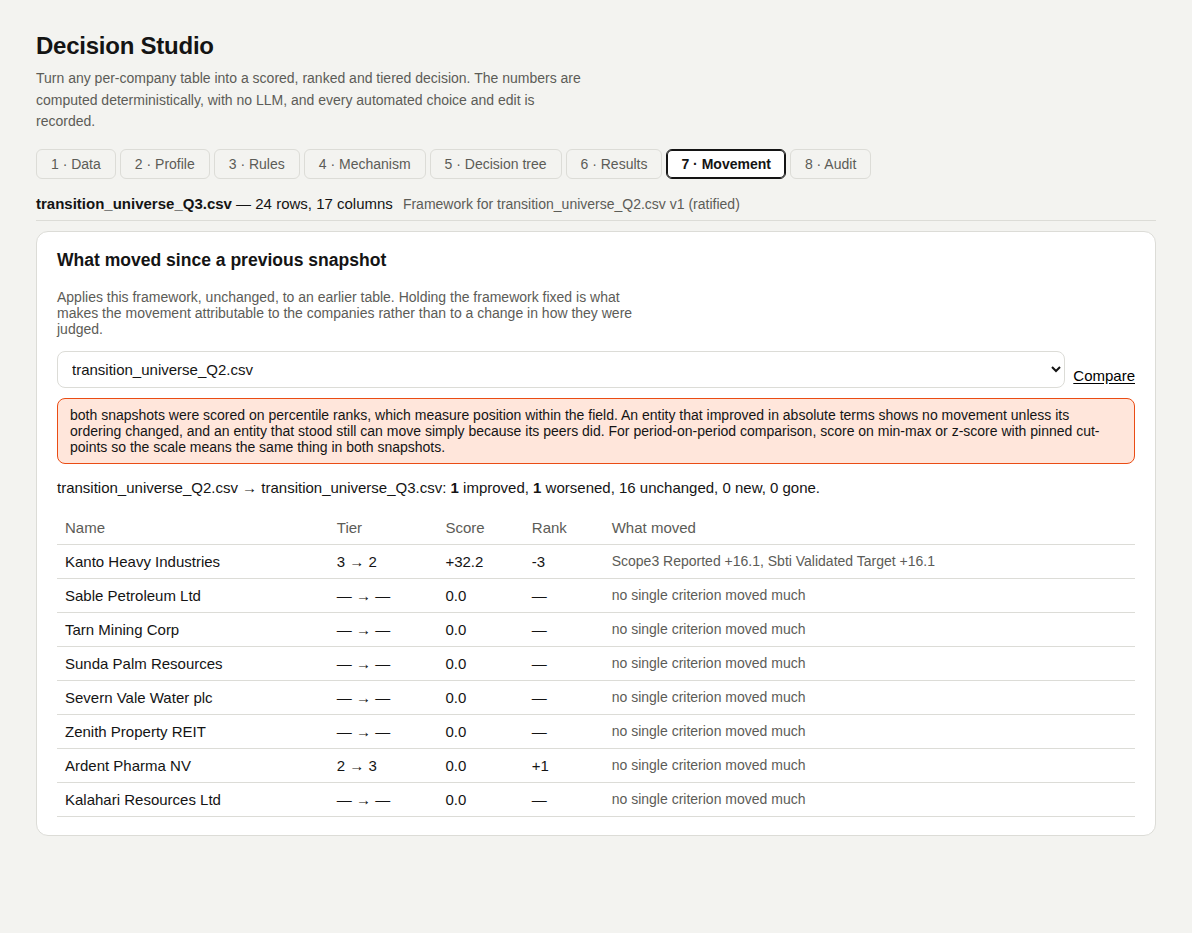
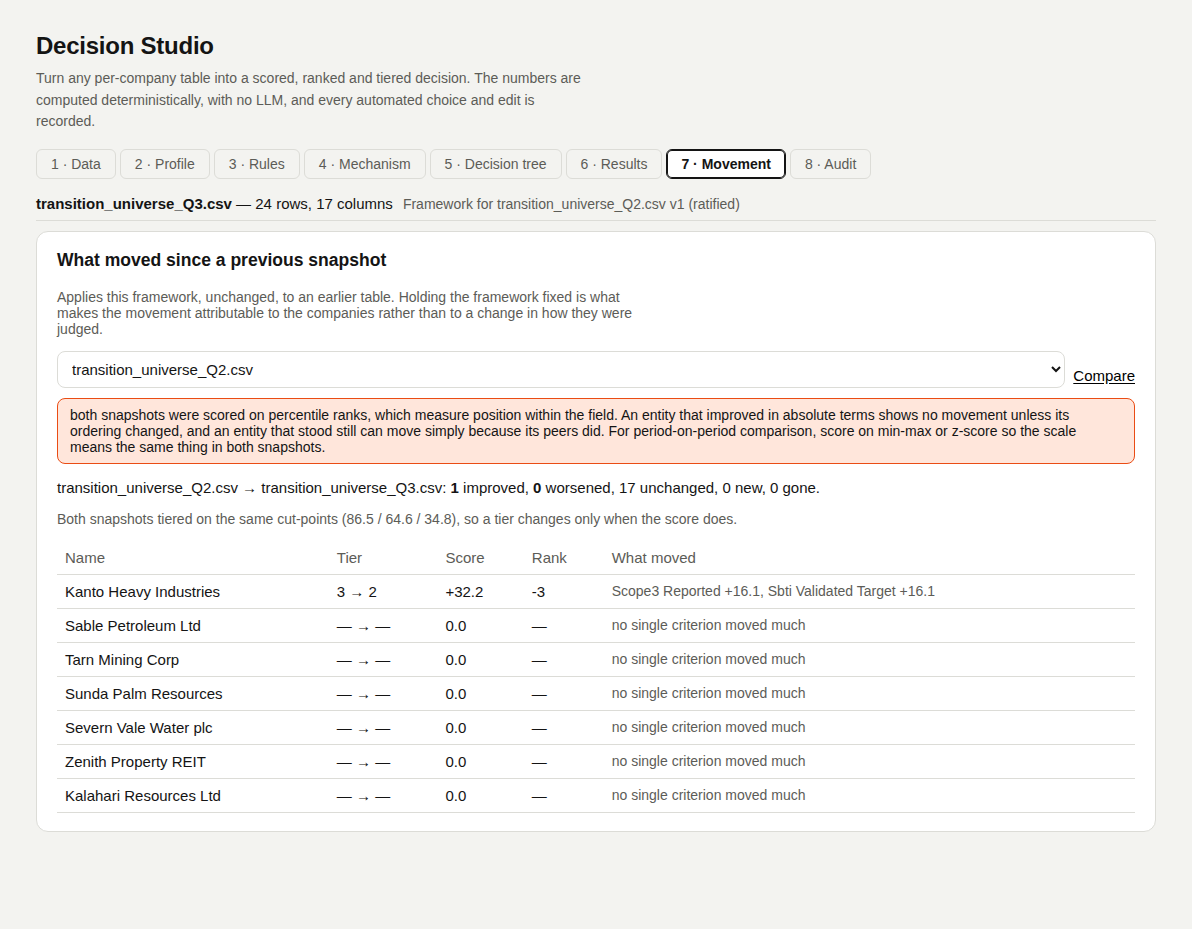
Movement: tier the later snapshot on the earlier snapshot's cut-points
Quantile and natural-break cut-points were drawn afresh for each snapshot,
so they moved with the field: in the sample, Kanto improving pushed the
middle cut from 64.6 to 71.0 and dropped Ardent Pharma a tier on an
unchanged score, with no driver. The compare endpoint and CLI now score
the later snapshot with the earlier one's cut-points pinned (hold_cuts),
unless the framework already fixes them. The comparison reports the
cut-points used, and cuts_moved when two results were tiered on different
cut-points.

Claude-Session: https://claude.ai/code/session_01AVffM6Ffq8FKqvSX7caGGk

diff --git a/docs/decision-studio/movement.html b/docs/decision-studio/movement.html
@@ -12,7 +12,14 @@
     <p class="lede">Applies the same framework version, unchanged, to an earlier table. Holding the framework fixed makes any movement belong to the entities.</p>
   </header>
   <div class="cols">
-    <div class="logic"><section class="block"><h2>What it returns</h2><div class="tw"><table><thead><tr><th>Output</th><th>Meaning</th></tr></thead><tbody><tr><td>Counts</td><td>improved, worsened, unchanged, entered (new in this table), left (gone).</td></tr><tr><td>Per entity</td><td>tier, score, rank and status before and after, with the deltas. A negative tier change is an improvement.</td></tr><tr><td>Drivers</td><td>The criteria whose contribution moved most, largest first.</td></tr></tbody></table></div></section><section class="block"><h2>Guards</h2><div class="tw"><table><thead><tr><th>Situation</th><th>Result</th></tr></thead><tbody><tr><td>Different framework or version on each side</td><td><b>Refused</b> with the reason: the difference would describe the frameworks.</td></tr><tr><td>Percentile scores on both sides</td><td>Returned with a caveat: ranks show movement relative to the field, never absolute improvement.</td></tr><tr><td>A move with no driver</td><td>Empty driver list: the shape of a data problem, not progress.</td></tr></tbody></table></div><p class="note">For period-on-period work, score with min–max or z-score and fixed cut-points so the scale means the same in both tables.</p></section><section class="block"><h2>In the tool</h2><p>Screenshots of Decision Studio running on the sample table, taken with the app as it is on main.</p><figure class="shot"><a href="screenshots/07-movement.png"><img src="screenshots/07-movement.png" alt="Q3 against Q2 under the same ratified framework: Kanto 3 → 2 with its drivers, and Ardent Pharma 2 → 3 with no driver, because the quantile cut moved." loading="lazy"></a><figcaption>Q3 against Q2 under the same ratified framework: Kanto 3 → 2 with its drivers, and Ardent Pharma 2 → 3 with no driver, because the quantile cut moved.</figcaption></figure></section><section class="block"><h2>Functions applied</h2><p>What runs at this step, in order, with an example. Blue rows run on GoRules ZEN; the rest is Python in <code>backend/arp/decision/</code>.</p><div class="tw"><table><thead><tr><th>Function</th><th>Engine</th><th>Example</th></tr></thead><tbody><tr class=""><td><code>compare_results</code></td><td>Python</td><td>Q3 table where Kanto now reports Scope 3 and has an SBTi target → Kanto Tier 3 → 2, score 39.8 → 72.0, drivers <em>Scope3 Reported +16.1</em>, <em>Sbti Validated Target +16.1</em>.</td></tr><tr class=""><td><code>compare_results</code></td><td>Python</td><td>Same run: Ardent Pharma Tier 2 → 3 with its score unchanged at 70.1 and <b>no drivers</b>. The quantile cut moved 64.6 → 71.0 because Kanto rose. The percentile caveat is returned.</td></tr></tbody></table></div></section><section class="block"><h2>Code and formulas</h2><p>The formula each function applies, and its source as it is in the repository.</p><div class="fn"><div class="fn-h"><code class="fn-name">compare_results</code><span class="fn-where">backend/arp/decision/compare.py:9–92</span></div><p class="formula-p">Refused unless both results carry the same framework id and version. Then per entity: tier, score and rank before, after and delta.</p><details><summary>Python source (84 lines)</summary><pre class="src"><code>def compare_results(
+    <div class="logic"><section class="block"><h2>What it returns</h2><div class="tw"><table><thead><tr><th>Output</th><th>Meaning</th></tr></thead><tbody><tr><td>Counts</td><td>improved, worsened, unchanged, entered (new in this table), left (gone).</td></tr><tr><td>Per entity</td><td>tier, score, rank and status before and after, with the deltas. A negative tier change is an improvement.</td></tr><tr><td>Drivers</td><td>The criteria whose contribution moved most, largest first.</td></tr></tbody></table></div></section><section class="block"><h2>Guards</h2><div class="tw"><table><thead><tr><th>Situation</th><th>Result</th></tr></thead><tbody><tr><td>Different framework or version on each side</td><td><b>Refused</b> with the reason: the difference would describe the frameworks.</td></tr><tr><td>Percentile scores on both sides</td><td>Returned with a caveat: ranks show movement relative to the field, never absolute improvement.</td></tr><tr><td>Quantile or natural-break cut-points</td><td>The later table is tiered on the earlier table's cut-points, so a tier changes only when the score does. Cut-points drawn afresh would move with the field.</td></tr><tr><td>A move with no driver</td><td>Empty driver list: the shape of a data problem, not progress.</td></tr></tbody></table></div><p class="note">For period-on-period work, score with min–max or z-score so the scores themselves mean the same in both tables.</p></section><section class="block"><h2>In the tool</h2><p>Screenshots of Decision Studio running on the sample table, taken with the app as it is on main.</p><figure class="shot"><a href="screenshots/07-movement.png"><img src="screenshots/07-movement.png" alt="Q3 against Q2 under the same ratified framework, tiered on Q2&#x27;s cut-points: only Kanto moves, 3 → 2, with its two drivers." loading="lazy"></a><figcaption>Q3 against Q2 under the same ratified framework, tiered on Q2's cut-points: only Kanto moves, 3 → 2, with its two drivers.</figcaption></figure></section><section class="block"><h2>Functions applied</h2><p>What runs at this step, in order, with an example. Blue rows run on GoRules ZEN; the rest is Python in <code>backend/arp/decision/</code>.</p><div class="tw"><table><thead><tr><th>Function</th><th>Engine</th><th>Example</th></tr></thead><tbody><tr class=""><td><code>compare_results</code></td><td>Python</td><td>Q3 table where Kanto now reports Scope 3 and has an SBTi target → Kanto Tier 3 → 2, score 39.8 → 72.0, drivers <em>Scope3 Reported +16.1</em>, <em>Sbti Validated Target +16.1</em>.</td></tr><tr class=""><td><code>hold_cuts</code></td><td>Python</td><td>The Q3 table is tiered on Q2's cut-points 86.5 / 64.6 / 34.8. Drawn afresh, Kanto's rise would move the middle cut to 71.0 and drop Ardent Pharma to Tier 3 on an unchanged 70.1 with no driver; held, Ardent stays in Tier 2 and only Kanto moves. The percentile caveat is returned.</td></tr></tbody></table></div></section><section class="block"><h2>Code and formulas</h2><p>The formula each function applies, and its source as it is in the repository.</p><div class="fn"><div class="fn-h"><code class="fn-name">hold_cuts</code><span class="fn-where">backend/arp/decision/compare.py:9–16</span></div><p class="formula-p"><code>cut_mode = absolute, pinned_cuts = cuts(before)</code> for the later snapshot, unless the framework already pins its cuts.</p><details><summary>Python source (8 lines)</summary><pre class="src"><code>def hold_cuts(config: MechanismConfig, before: DecisionResult) -&gt; MechanismConfig:
+    &quot;&quot;&quot;The framework with the earlier snapshot&#x27;s cut-points pinned, for
+    scoring the later one. Quantile or natural-break cuts drawn afresh move
+    with the field, so an entity whose score stood still could change tier
+    with no criterion behind it. Fixed cut-points are left as they are.&quot;&quot;&quot;
+    if before.cuts_origin == &quot;absolute&quot;:
+        return config
+    return config.model_copy(update={&quot;cut_mode&quot;: &quot;absolute&quot;, &quot;pinned_cuts&quot;: list(before.effective_cuts)})</code></pre></details></div><div class="fn"><div class="fn-h"><code class="fn-name">compare_results</code><span class="fn-where">backend/arp/decision/compare.py:19–111</span></div><p class="formula-p">Refused unless both results carry the same framework id and version. Then per entity: tier, score and rank before, after and delta.</p><details><summary>Python source (93 lines)</summary><pre class="src"><code>def compare_results(
     before: DecisionResult,
     after: DecisionResult,
     *,
@@ -77,7 +84,14 @@
             &quot;both snapshots were scored on percentile ranks, which measure position within the field. An entity &quot;
             &quot;that improved in absolute terms shows no movement unless its ordering changed, and an entity that &quot;
             &quot;stood still can move simply because its peers did. For period-on-period comparison, score on min-max &quot;
-            &quot;or z-score with pinned cut-points so the scale means the same thing in both snapshots.&quot;
+            &quot;or z-score so the scale means the same thing in both snapshots.&quot;
+        )
+
+    cuts_moved = None
+    if before.effective_cuts != after.effective_cuts:
+        cuts_moved = (
+            f&quot;the cut-points moved from {&#x27; / &#x27;.join(f&#x27;{c:.1f}&#x27; for c in before.effective_cuts)} to &quot;
+            f&quot;{&#x27; / &#x27;.join(f&#x27;{c:.1f}&#x27; for c in after.effective_cuts)}, so a tier can change on an unchanged score&quot;
         )
 
     movements.sort(key=lambda m: (-(abs(m.score_delta) if m.score_delta is not None else -1)))
@@ -95,7 +109,9 @@
         comparable=comparable,
         incomparable_reason=reason,
         caveat=caveat,
-    )</code></pre></details></div><div class="fn"><div class="fn-h"><code class="fn-name">_drivers</code><span class="fn-where">backend/arp/decision/compare.py:95–109</span></div><p class="formula-p"><code>Δcontributionⱼ = contributionⱼ(after) − contributionⱼ(before)</code>; criteria with <code>|Δ| ≥ 0.5</code>, largest first.</p><details><summary>Python source (15 lines)</summary><pre class="src"><code>def _drivers(old, new) -&gt; list[str]:
+        cut_points=list(after.effective_cuts),
+        cuts_moved=cuts_moved,
+    )</code></pre></details></div><div class="fn"><div class="fn-h"><code class="fn-name">_drivers</code><span class="fn-where">backend/arp/decision/compare.py:114–128</span></div><p class="formula-p"><code>Δcontributionⱼ = contributionⱼ(after) − contributionⱼ(before)</code>; criteria with <code>|Δ| ≥ 0.5</code>, largest first.</p><details><summary>Python source (15 lines)</summary><pre class="src"><code>def _drivers(old, new) -&gt; list[str]:
     &quot;&quot;&quot;Which criteria actually moved the score. A tier change with no named
     driver is the shape of a data problem, not of progress, and the list
     being empty says so.&quot;&quot;&quot;

diff --git a/frontend/src/pages/DecisionStudio.tsx b/frontend/src/pages/DecisionStudio.tsx
@@ -872,6 +872,16 @@ export function DecisionStudio() {
                 <strong>{comparison.worsened}</strong> worsened, {comparison.unchanged} unchanged, {comparison.entered} new,{" "}
                 {comparison.left} gone.
               </p>
+              {comparison.cuts_moved ? (
+                <p className="decision-check-banner">{comparison.cuts_moved}</p>
+              ) : (
+                !!comparison.cut_points?.length && (
+                  <p className="muted">
+                    Both snapshots tiered on the same cut-points ({comparison.cut_points.map((c) => c.toFixed(1)).join(" / ")}), so a
+                    tier changes only when the score does.
+                  </p>
+                )
+              )}
               <table className="data-table">
                 <thead>
                   <tr>

diff --git a/frontend/src/types.ts b/frontend/src/types.ts
@@ -1971,6 +1971,8 @@ export interface DecisionComparison {
   comparable: boolean;
   incomparable_reason?: string | null;
   caveat?: string | null;
+  cut_points?: number[];
+  cuts_moved?: string | null;
 }
 
 // ---------------------------------------------------------------- index

diff --git a/docs/decision-studio/build.py b/docs/decision-studio/build.py
@@ -80,7 +80,7 @@ FUNCS = {
     ],
     "movement": [
         ("compare_results", "Python", "Q3 table where Kanto now reports Scope 3 and has an SBTi target → Kanto Tier 3 → 2, score 39.8 → 72.0, drivers <em>Scope3 Reported +16.1</em>, <em>Sbti Validated Target +16.1</em>."),
-        ("compare_results", "Python", "Same run: Ardent Pharma Tier 2 → 3 with its score unchanged at 70.1 and <b>no drivers</b>. The quantile cut moved 64.6 → 71.0 because Kanto rose. The percentile caveat is returned."),
+        ("hold_cuts", "Python", "The Q3 table is tiered on Q2's cut-points 86.5 / 64.6 / 34.8. Drawn afresh, Kanto's rise would move the middle cut to 71.0 and drop Ardent Pharma to Tier 3 on an unchanged 70.1 with no driver; held, Ardent stays in Tier 2 and only Kanto moves. The percentile caveat is returned."),
     ],
     "audit": [
         ("describe_changes", "Python", "Minimum coverage 60 → 75 → <code>('Minimum weight covered (%)', '60 -&gt; 75', origin human, by A. Reviewer)</code>"),
@@ -166,6 +166,7 @@ CODE = {
         ("decision/sensitivity.py", "tipping_points", "For each dimension, scale its weight from 0 up in <code>steps</code>, re-apply the framework, and take the share nearest today's at which the tier changes. None → robust."),
     ],
     "movement": [
+        ("decision/compare.py", "hold_cuts", "<code>cut_mode = absolute, pinned_cuts = cuts(before)</code> for the later snapshot, unless the framework already pins its cuts."),
         ("decision/compare.py", "compare_results", "Refused unless both results carry the same framework id and version. Then per entity: tier, score and rank before, after and delta."),
         ("decision/compare.py", "_drivers", "<code>Δcontributionⱼ = contributionⱼ(after) − contributionⱼ(before)</code>; criteria with <code>|Δ| ≥ 0.5</code>, largest first."),
     ],
@@ -206,7 +207,7 @@ SHOTS = {
         ("06c-explain.png", "Kanto Heavy Industries opened: what moved its score."),
         ("06b-sensitivity.png", "Kanto's tipping points: Scope 3 at +4.1 points flips it to Tier 4."),
     ],
-    "movement": [("07-movement.png", "Q3 against Q2 under the same ratified framework: Kanto 3 → 2 with its drivers, and Ardent Pharma 2 → 3 with no driver, because the quantile cut moved.")],
+    "movement": [("07-movement.png", "Q3 against Q2 under the same ratified framework, tiered on Q2's cut-points: only Kanto moves, 3 → 2, with its two drivers.")],
     "audit": [("08-audit.png", "Audit after ratifying v1: the ratified badge, Publish, and the derived half of the log.")],
     "output": [("09-publish.png", "The Publish dialog on the sample table: <b>Match issuers by</b> defaults to ISIN, the column the engine marked as a reference.")],
 }
@@ -524,8 +525,9 @@ PAGES["movement"] = dict(
             ["Situation", "Result"], [
                 ["Different framework or version on each side", "<b>Refused</b> with the reason: the difference would describe the frameworks."],
                 ["Percentile scores on both sides", "Returned with a caveat: ranks show movement relative to the field, never absolute improvement."],
+                ["Quantile or natural-break cut-points", "The later table is tiered on the earlier table's cut-points, so a tier changes only when the score does. Cut-points drawn afresh would move with the field."],
                 ["A move with no driver", "Empty driver list: the shape of a data problem, not progress."],
-            ]) + '<p class="note">For period-on-period work, score with min–max or z-score and fixed cut-points so the scale means the same in both tables.</p>'),
+            ]) + '<p class="note">For period-on-period work, score with min–max or z-score so the scores themselves mean the same in both tables.</p>'),
     ],
     example=[
         ("Q2 table + Q3 table, both v1", "Illustration: tier moves with drivers, e.g. a company rising because Scope3_Reported turned Yes."),

diff --git a/backend/tests/test_decision_analysis.py b/backend/tests/test_decision_analysis.py
@@ -4,7 +4,7 @@ from pathlib import Path
 
 import pytest
 
-from arp.decision.compare import compare_results
+from arp.decision.compare import compare_results, hold_cuts
 from arp.decision.dataset import build_dataset, dataset_from_file
 from arp.decision.mechanism import apply_mechanism, derive_mechanism
 from arp.decision.sensitivity import tipping_points
@@ -115,3 +115,39 @@ def test_entities_entering_and_leaving_are_counted_separately():
     comparison = compare_results(apply_mechanism(before, config), apply_mechanism(after, config))
     assert comparison.entered == 1
     assert comparison.left == 4
+
+
+def _kanto_improves(dataset):
+    rows = [dict(r) for r in dataset.rows]
+    for row in rows:
+        if row["Company"].startswith("Kanto"):
+            row["Scope3_Reported"] = "Yes"
+            row["SBTi_Validated_Target"] = "Yes"
+    return build_dataset("q3", [dataset.columns] + [[r[c] for c in dataset.columns] for r in rows])
+
+
+def test_quantile_cuts_are_held_so_a_tier_change_needs_a_score_change(sample):
+    """Kanto discloses Scope 3 and gets a target; nobody else changes. Drawn
+    afresh, the quantile cuts move with Kanto and push Ardent Pharma down a
+    tier on an identical score -- a movement with no driver. Held at the
+    earlier snapshot's cuts, only Kanto moves."""
+    dataset, config, _ = sample
+    first = apply_mechanism(dataset, config)
+    later = _kanto_improves(dataset)
+
+    redrawn = compare_results(first, apply_mechanism(later, config))
+    ardent = next(m for m in redrawn.movements if m.name.startswith("Ardent"))
+    assert ardent.tier_delta == 1 and ardent.score_delta == 0 and not ardent.drivers
+    assert redrawn.cuts_moved is not None
+
+    held = compare_results(first, apply_mechanism(later, hold_cuts(config, first)))
+    assert held.comparable is True
+    assert held.cut_points == first.effective_cuts
+    assert held.cuts_moved is None
+    assert [m.name for m in held.movements if m.tier_delta] == ["Kanto Heavy Industries"]
+
+
+def test_holding_cuts_leaves_fixed_cut_points_alone(sample):
+    dataset, config, _ = sample
+    fixed = config.model_copy(update={"cut_mode": "absolute", "pinned_cuts": [80.0, 60.0, 40.0]})
+    assert hold_cuts(fixed, apply_mechanism(dataset, fixed)) is fixed

diff --git a/backend/arp/decision/compare.py b/backend/arp/decision/compare.py
@@ -1,9 +1,19 @@
 from __future__ import annotations
 
 from arp.decision.roles import pretty
-from arp.schemas.decision import DecisionComparison, DecisionResult, EntityMovement
+from arp.schemas.decision import DecisionComparison, DecisionResult, EntityMovement, MechanismConfig
 
 _MAX_DRIVERS = 3
+
+
+def hold_cuts(config: MechanismConfig, before: DecisionResult) -> MechanismConfig:
+    """The framework with the earlier snapshot's cut-points pinned, for
+    scoring the later one. Quantile or natural-break cuts drawn afresh move
+    with the field, so an entity whose score stood still could change tier
+    with no criterion behind it. Fixed cut-points are left as they are."""
+    if before.cuts_origin == "absolute":
+        return config
+    return config.model_copy(update={"cut_mode": "absolute", "pinned_cuts": list(before.effective_cuts)})
 
 
 def compare_results(
@@ -71,7 +81,14 @@ def compare_results(
             "both snapshots were scored on percentile ranks, which measure position within the field. An entity "
             "that improved in absolute terms shows no movement unless its ordering changed, and an entity that "
             "stood still can move simply because its peers did. For period-on-period comparison, score on min-max "
-            "or z-score with pinned cut-points so the scale means the same thing in both snapshots."
+            "or z-score so the scale means the same thing in both snapshots."
+        )
+
+    cuts_moved = None
+    if before.effective_cuts != after.effective_cuts:
+        cuts_moved = (
+            f"the cut-points moved from {' / '.join(f'{c:.1f}' for c in before.effective_cuts)} to "
+            f"{' / '.join(f'{c:.1f}' for c in after.effective_cuts)}, so a tier can change on an unchanged score"
         )
 
     movements.sort(key=lambda m: (-(abs(m.score_delta) if m.score_delta is not None else -1)))
@@ -89,6 +106,8 @@ def compare_results(
         comparable=comparable,
         incomparable_reason=reason,
         caveat=caveat,
+        cut_points=list(after.effective_cuts),
+        cuts_moved=cuts_moved,
     )
 
 

diff --git a/backend/arp/api/routers/decision.py b/backend/arp/api/routers/decision.py
@@ -12,7 +12,7 @@ from pydantic import BaseModel, Field, ValidationError, field_validator
 from arp.api.deps import get_decision_store, get_portfolio_store, get_run_store, settings_dep
 from arp.config import Settings
 from arp.decision import overrides, sources, templates
-from arp.decision.compare import compare_results
+from arp.decision.compare import compare_results, hold_cuts
 from arp.decision.dataset import Dataset, build_dataset
 from arp.decision.diffing import describe_changes
 from arp.decision.mechanism import apply_mechanism, derive_mechanism
@@ -751,9 +751,10 @@ def compare(req: CompareRequest, store: DecisionStore = Depends(get_decision_sto
     before = _load_dataset(req.dataset_id_before, store)
     after = _load_dataset(req.dataset_id_after, store)
     config = _resolve_config(req.config, req.framework_id, req.version, store)
+    first = _apply(before, config, overrides=overrides.load(store.overrides_path(before.dataset_id)))
     return compare_results(
-        _apply(before, config, overrides=overrides.load(store.overrides_path(before.dataset_id))),
-        _apply(after, config, overrides=overrides.load(store.overrides_path(after.dataset_id))),
+        first,
+        _apply(after, hold_cuts(config, first), overrides=overrides.load(store.overrides_path(after.dataset_id))),
         label_before=before.as_of or before.name,
         label_after=after.as_of or after.name,
     )

diff --git a/backend/arp/cli/decision.py b/backend/arp/cli/decision.py
@@ -10,7 +10,7 @@ from arp.cli._shared import _portfolio_store, _run_store
 from arp.config import get_settings
 from arp.decision import sources as decision_sources
 from arp.decision import templates
-from arp.decision.compare import compare_results
+from arp.decision.compare import compare_results, hold_cuts
 from arp.decision.dataset import Dataset, dataset_from_file
 from arp.decision.diffing import describe_changes
 from arp.decision.mechanism import apply_mechanism, derive_mechanism
@@ -238,9 +238,10 @@ def decision_compare(
 
     ds_before, ds_after = _resolve(before), _resolve(after)
     config, _audit = _config(ds_after, framework_id, version, framework_file)
+    first = apply_mechanism(ds_before, config)
     comparison = compare_results(
-        apply_mechanism(ds_before, config),
-        apply_mechanism(ds_after, config),
+        first,
+        apply_mechanism(ds_after, hold_cuts(config, first)),
         label_before=ds_before.as_of or ds_before.name,
         label_after=ds_after.as_of or ds_after.name,
     )

diff --git a/backend/arp/schemas/decision.py b/backend/arp/schemas/decision.py
@@ -474,6 +474,12 @@ class DecisionComparison(BaseModel):
         description="A limitation of the comparison that does not invalidate it -- chiefly that a rank-based "
         "normalisation can only show movement relative to the field, never absolute improvement.",
     )
+    cut_points: list[float] = Field(default_factory=list, description="The cut-points the later snapshot was tiered on.")
+    cuts_moved: str | None = Field(
+        default=None,
+        description="Set when the two snapshots were tiered on different cut-points, so a tier can change on an "
+        "unchanged score. The studio and CLI hold the earlier snapshot's cuts, which leaves this empty.",
+    )
 
 
 class PublishedRow(BaseModel):

diff --git a/docs/DECISION_MECHANISM.md b/docs/DECISION_MECHANISM.md
@@ -361,7 +361,7 @@ rank deltas, and the criteria whose contribution moved most. A movement
 with no named driver is the shape of a data problem rather than progress,
 and the empty driver list says so.
 
-Two guards:
+Three guards:
 
 - **Framework mismatch is refused, not silently compared.** A tier change
   under two different frameworks says nothing about the company, only
@@ -370,8 +370,14 @@ Two guards:
   percentile-scored snapshots returns a caveat: an entity that improved in
   absolute terms shows no movement unless its ordering changed, and one
   that stood still can move because its peers did. For period-on-period
-  work, score on min–max or z-score with pinned cut-points so the scale
-  means the same thing in both snapshots.
+  work, score on min–max or z-score so the scale means the same thing in
+  both snapshots.
+- **Cut-points are held.** The later snapshot is tiered on the earlier
+  one's cut-points (`hold_cuts`), unless the framework already pins them.
+  Quantile or natural-break cuts drawn afresh move with the field, so an
+  entity whose score stood still could change tier with no driver. The
+  comparison reports the cut-points used, and `cuts_moved` when a caller
+  compares results tiered on different ones.
 
 ---
 
